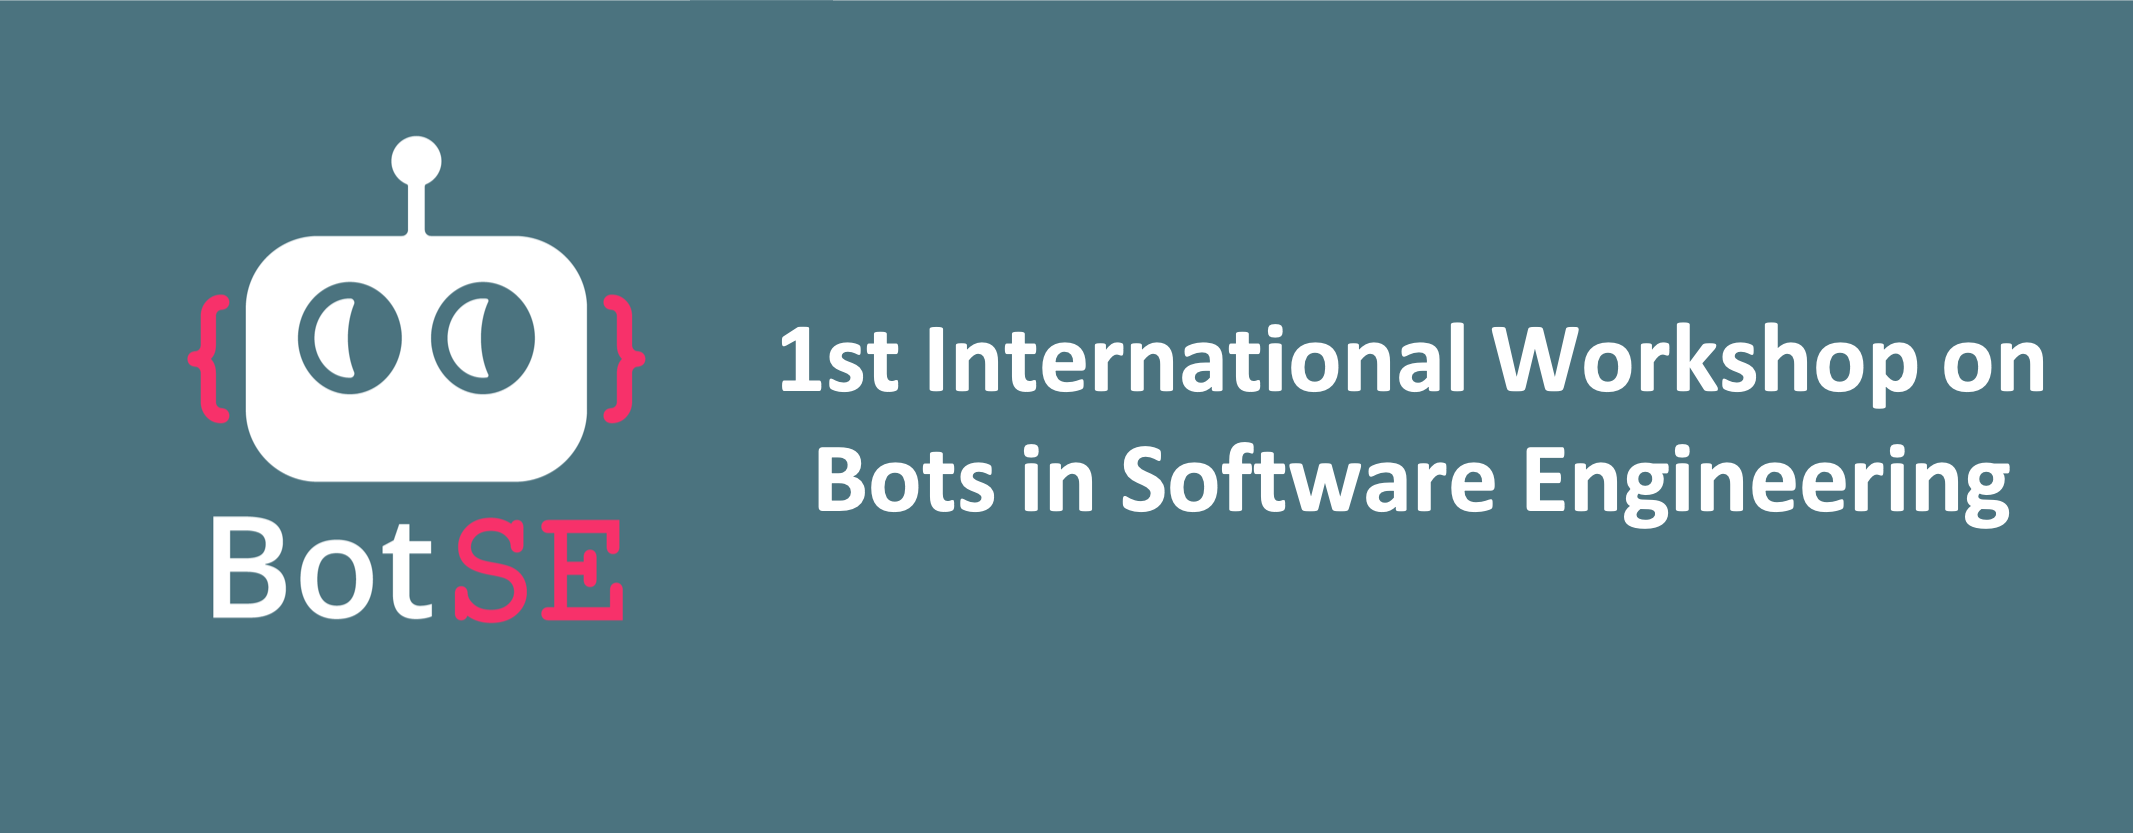
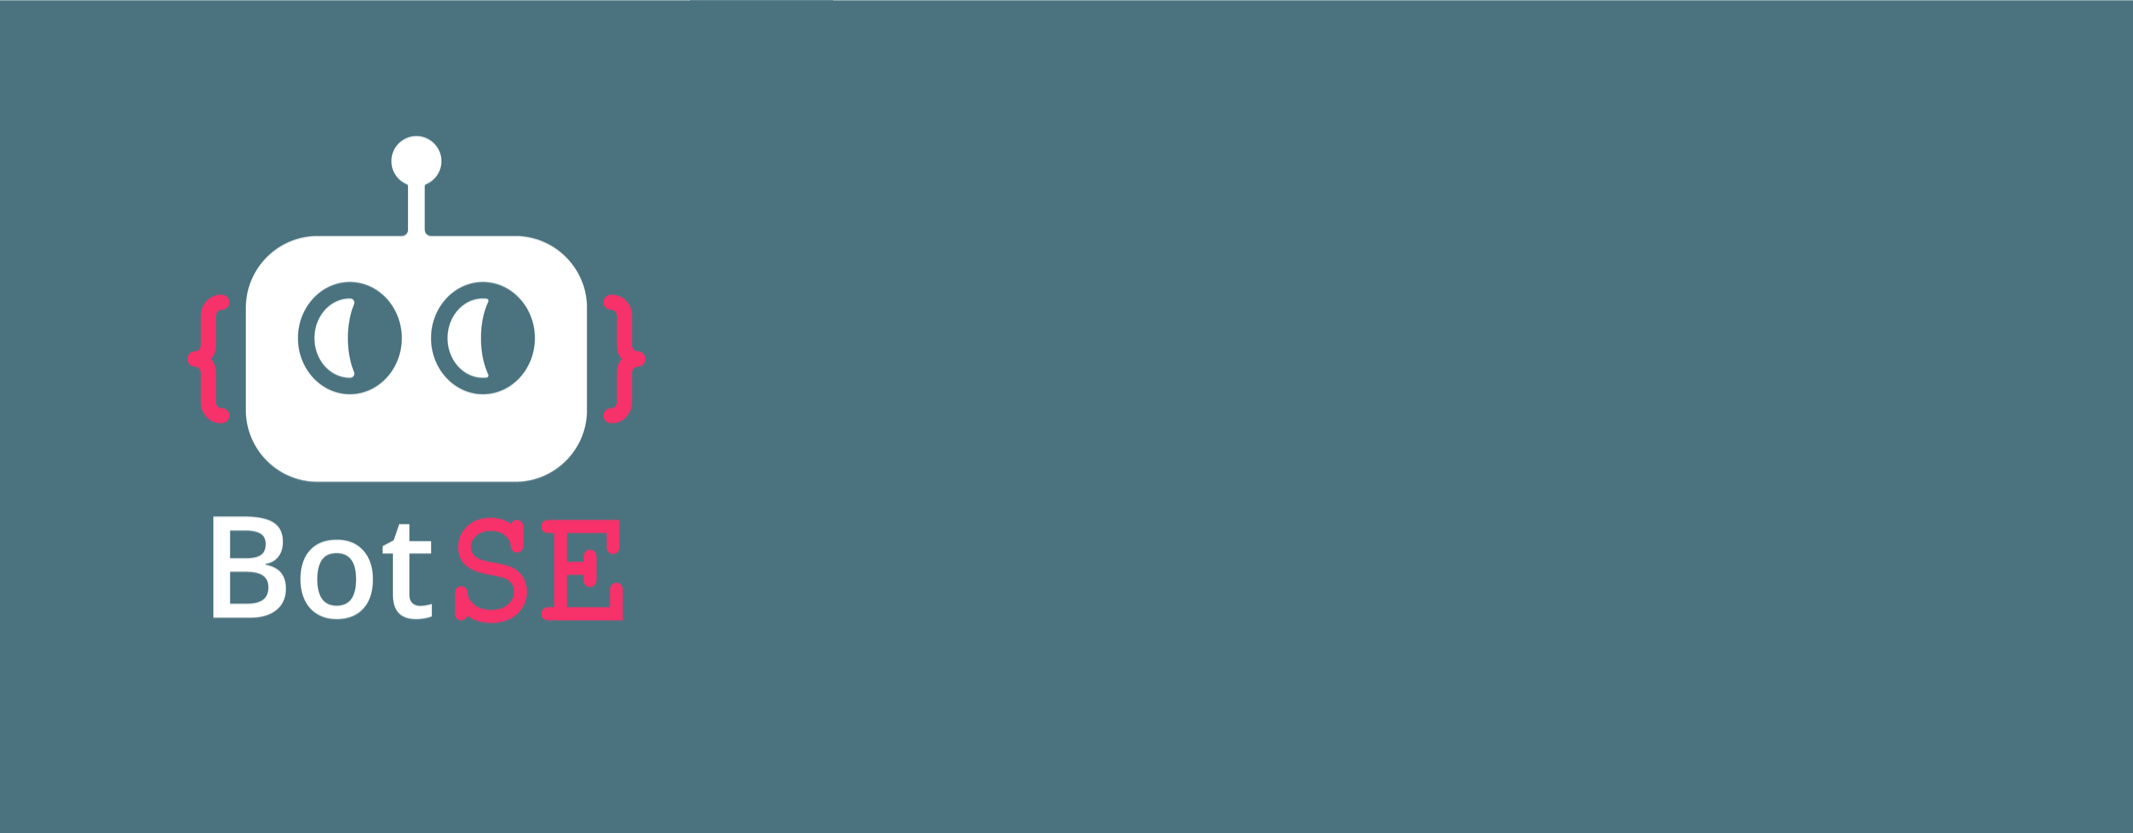
Changes

Changed region(s): [[0.3713, 0.5306, 0.9592, 0.6555], [0.3713, 0.3745, 0.9592, 0.4994]]

diff --git a/css/stylish-portfolio.css b/css/stylish-portfolio.css
@@ -173,7 +173,7 @@ hr.small {
     display: table;
     position: relative;
     width: 100%;
-    background: url(../img/bot.jpg) no-repeat center center scroll;
+    background: url(../img/bot.png) no-repeat center center scroll;
     -webkit-background-size: cover;
     -moz-background-size: cover;
     background-size: cover;
